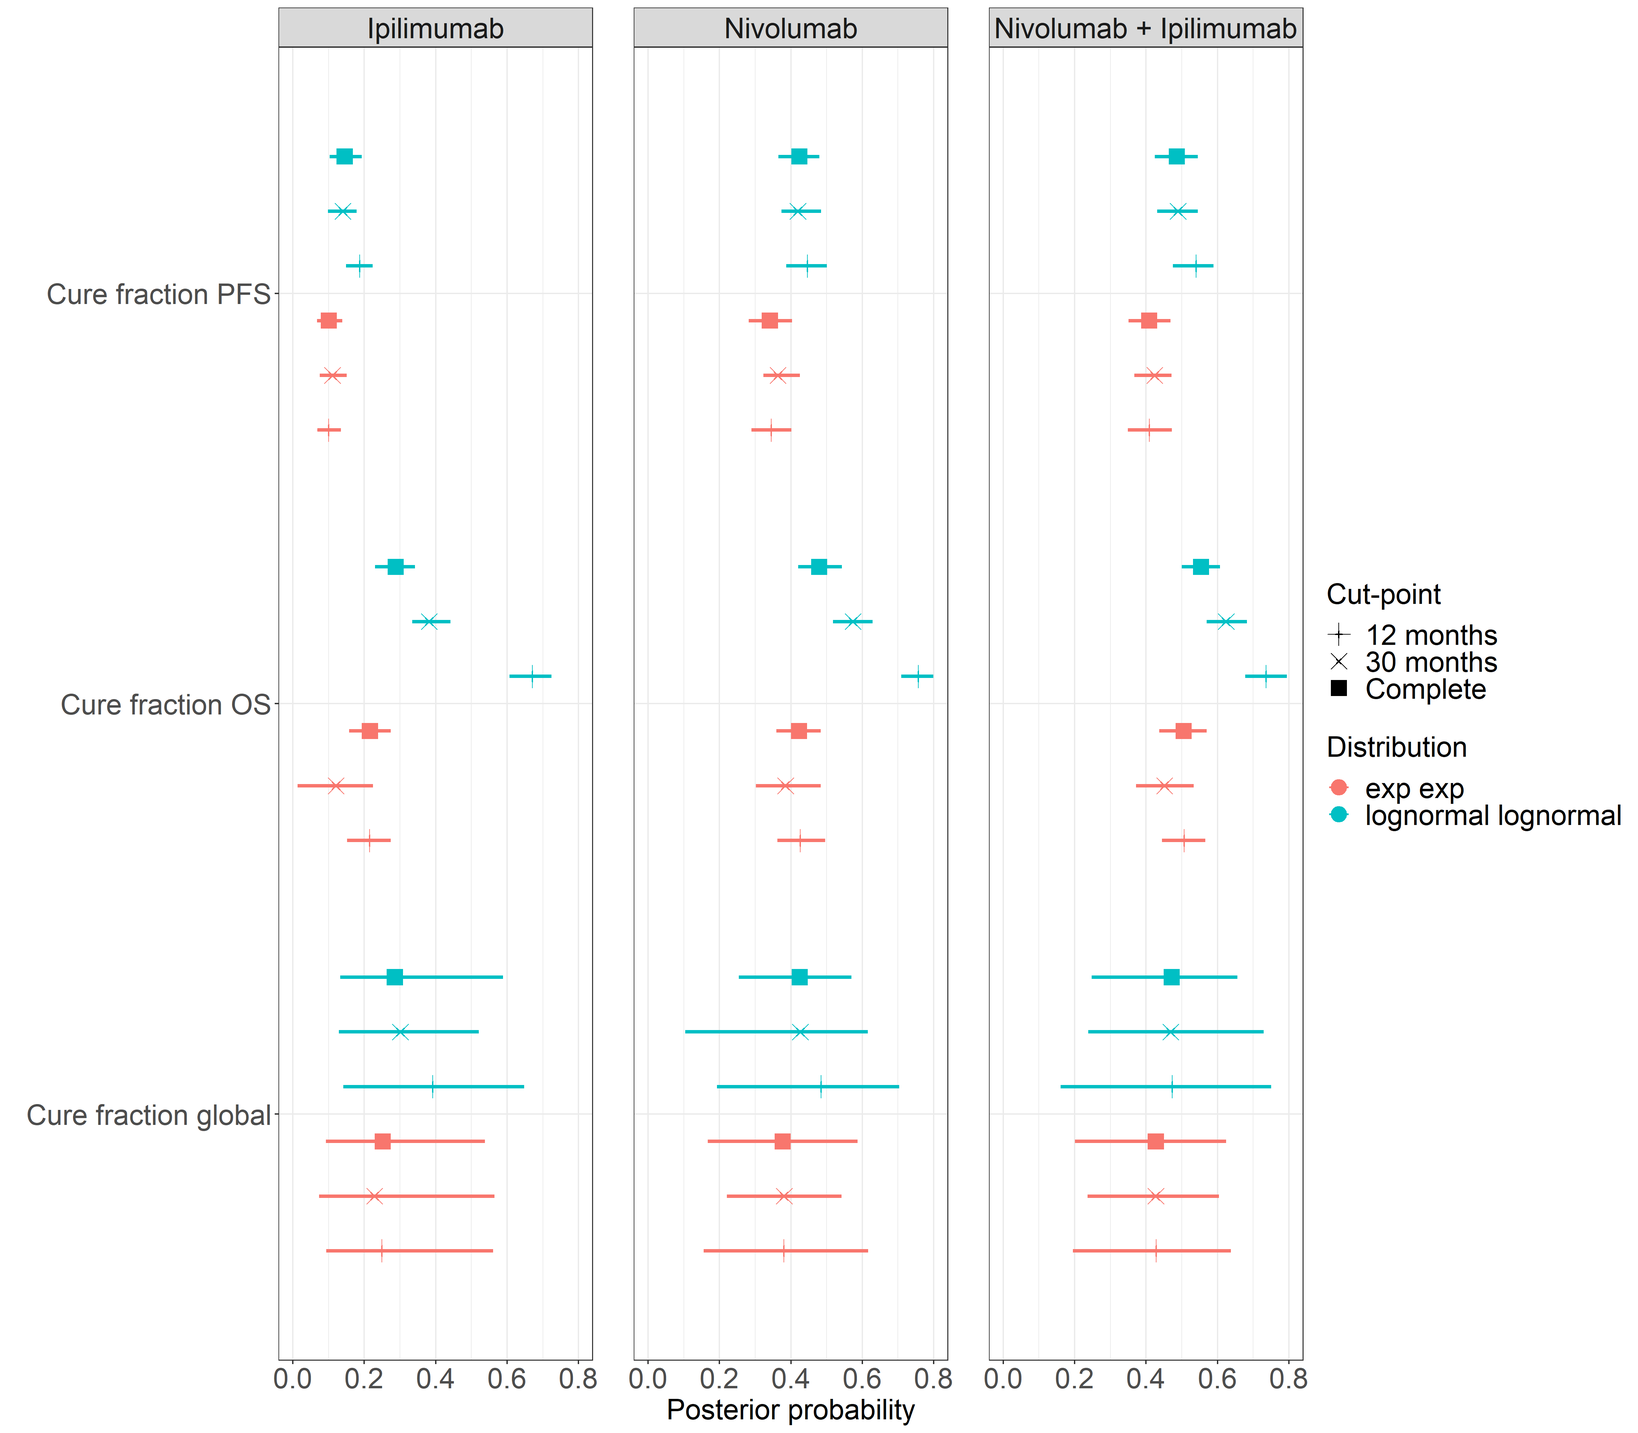
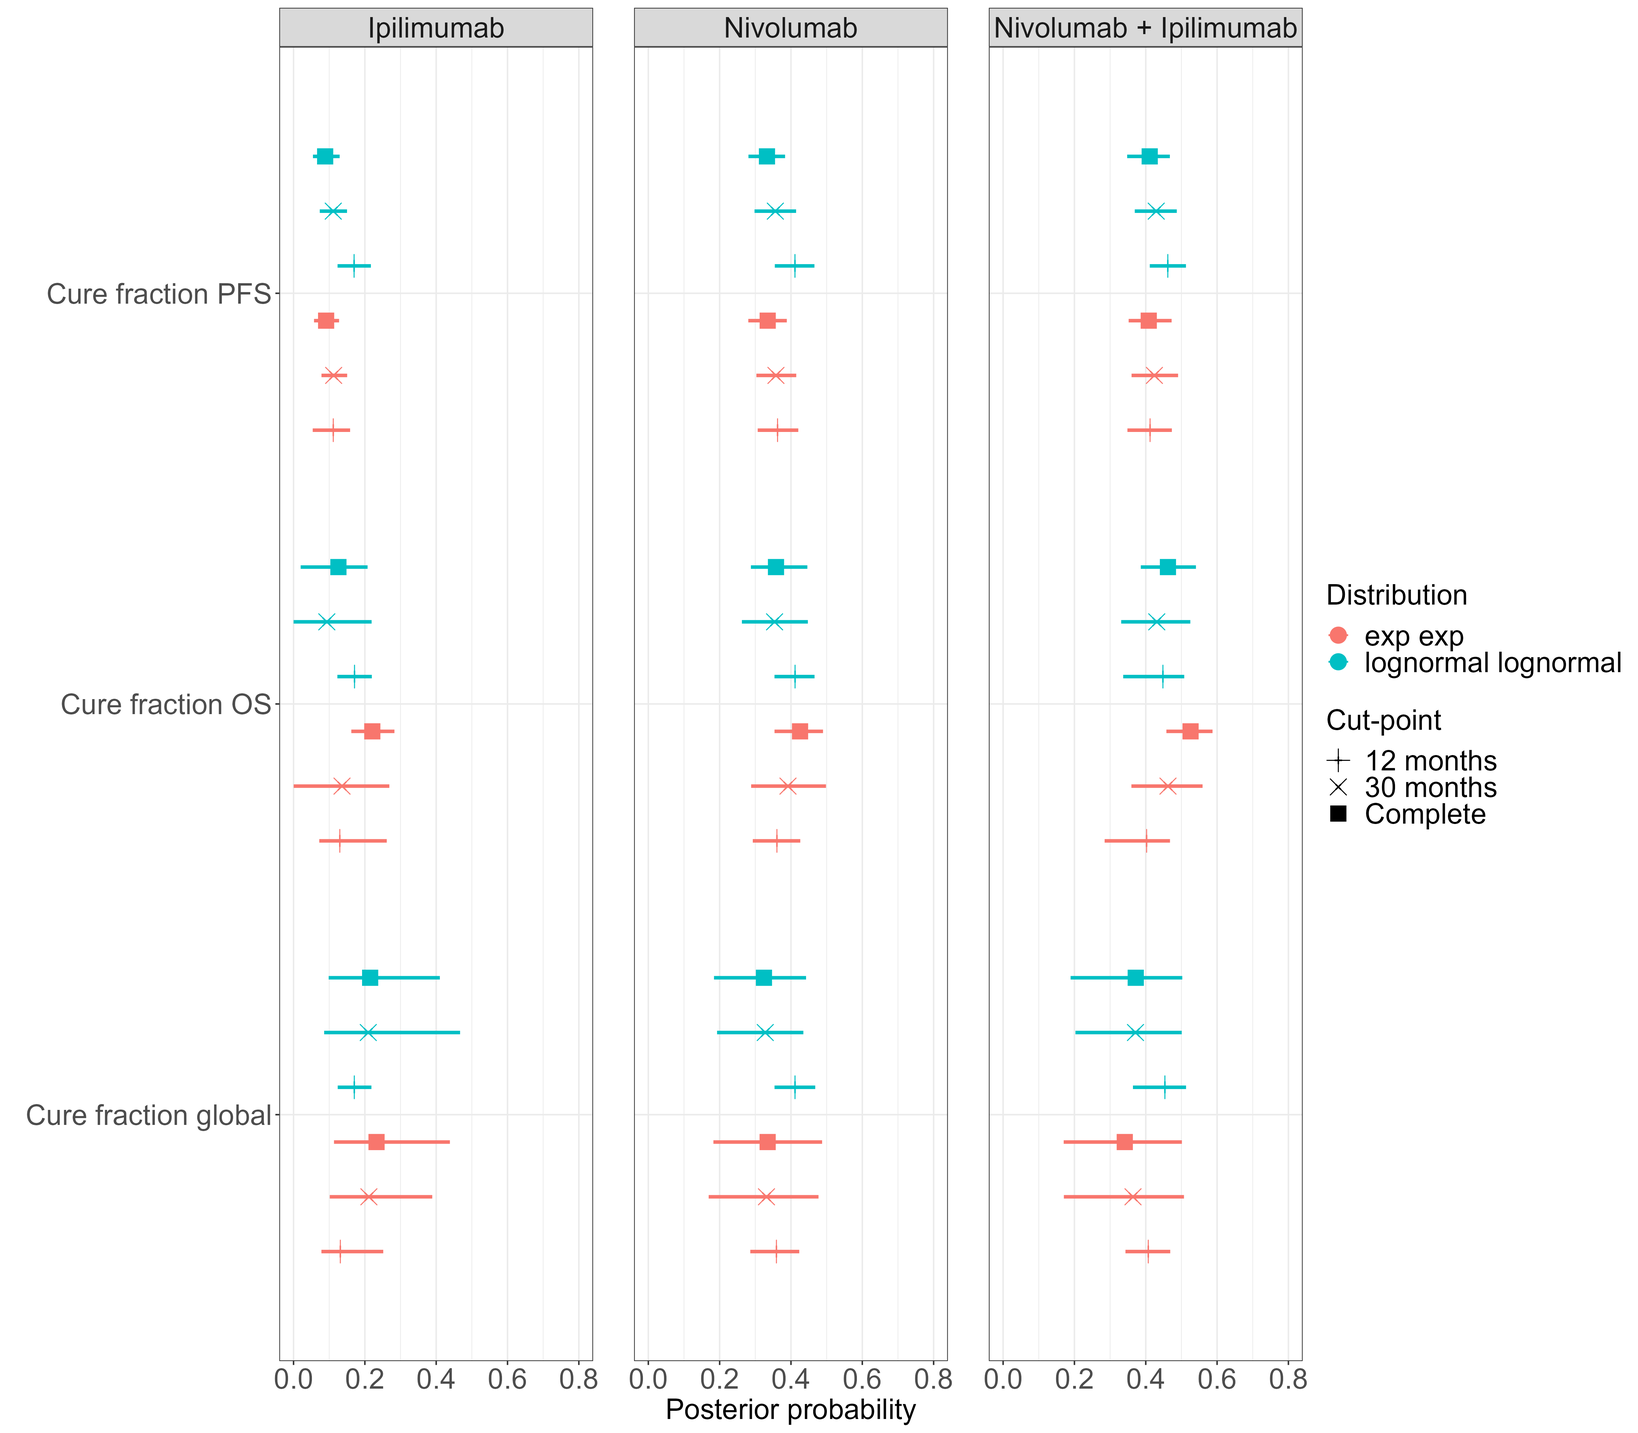
complexity penalise priors

diff --git a/wileyNJD-AMA.tex b/wileyNJD-AMA.tex
@@ -193,7 +193,6 @@ Similarly, for PFS, ranges of the proportions of LTSs were 9\%–13\% for ipilim
 
 %
 \section{Modelling framework}\label{sec:methods}
-\note[GBaio]{I wonder whether you could simplify the notation in this section and remove the index j throughout?}
 Consider a study in which $n$ individuals are observed and the (non-negative) time to either progression ($T^{prog}_{i}$) or death ($T^{death}_{i}$) are recorded for each individual $i=1,\ldots,n$.
 Denote the event time for individual $i$ by $T_{i}$.
 In our motivating example, we would have a separate set of $T_{i}$ for either end-point, PFS or OS.
@@ -234,9 +233,6 @@ In the standard cure model, cured individuals are usually assumed to have no cha
 There are several types of cure models and a rich and growing body of research in this area.
 (see \citep{Yu2013} for a comparison and guidance with application to oncology.)
 
-\note[GBaio]{I can understand \_b for "background", but why do we use \_u? Can we find a more straightforward notation?}
-\note[NGreen]{this just seems to be what everyone else uses. "u"ncured perhaps?}
-
 For an individual $i$ in a population with a cure fraction, the mixture cure model has the following survival model
 
 \begin{equation}
@@ -263,7 +259,7 @@ The treatment index for an individual is included in the covariate vector $\bm{x
 % We will assume without loss of generalisability that all individuals have all treatments.
 Note that although we are including all treatments arms in the same model we are not assuming any relationship between them. In particular, we do not suppose proportional hazards. This allows greater flexibility for the cases when proportional hazards is violated.
 
-%% move this to earlier?
+%% 
 \subsubsection{Issues modelling multiple end-points} \label{section:issues}
 There are several potential issues with existing approaches to cure modelling, when applied to an HTA context in particular.
 
@@ -282,6 +278,10 @@ The censoring times may be too early in order to adequately characterise a survi
 In particular, OS times are bounded below by PFS times by definition so will be subject to more censoring at the same cut-point.
 By taking advantage of the set of end-points together the data paucity may be alleviated to give better fits and extrapolation to the full lifetimes of patients.
 This is particularly important for health economics modelling in order to gauge the full cost and effect of an intervention.
+
+% complexity penalising
+Furthermore, if there is heavy censoring for all endpoints, such as early data cuts, and the number of endpoints is small then the data alone may not represent the true underlying survival curves, including the plateau for the cure fractions.
+At this point, additional sources of information should be principally incorporated into the model. A Bayesian paradigm naturally allows for the inclusion of external evidence from sources such as historical data and expert opinion. It is reasonable to assume, in the absence of additional information, that the cure fractions for all end points are drawn from the same or very similar distribution. In order to do this we can increase the amount of strength to borrow between end point data which strikes a balance between the information (or lack of) in the data and other knowledge \cite{Nikolaidis2021}. Practically, this corresponds to a reduction in the global cure fraction variance hyper parameter which in the limit is a base model with $\sigma_k=0$, equivalent to complete pooling of the data. 
 
 % our innovative proposal
 We will now present a Bayesian hierarchical mixture cure model for multiple end-points.
@@ -384,10 +384,29 @@ The hierarchical cure fraction is modelled as a fixed effect linear regression w
 This corresponds to a prior mean cure fraction of just under 0.5, and approximately 10\% and 1\% chance of exceeding 0.6 and 0.7 respectively.
 Prior predictive plots and further discussion are provided in the supplementary material.
 
-The random effect variance on the global cure fraction is a noninformative (folded) half-Normal \cite{Gelman2006} with 
-${\sigma^2 \sim \text{N}(0, 2.5)\mathbb{I}(0,)}$, where $\mathbb{I}(0,)$ denotes a distribution truncated at mean 0.
+\subsubsection{Cure fraction between-endpoint variance}
+% complete data
+For the complete data analysis, the random effect variance on the global cure fraction was a noninformative (folded) half-Normal \cite{Gelman2006} with 
+${\sigma_k \sim \text{N}(0, 2.5^2)\mathbb{I}(0,)}$, where $\mathbb{I}(0,)$ denotes a distribution truncated at mean 0.
 Alternatively, a noninformative uniform prior density on standard deviation parameters $\sigma$ is expected to generally work well when $J > 5$.
 For small hierarchical variance a $\text{Gamma}(2, 0.1)$ may be preferred \cite{Chung2013}.
+
+% cut-point data
+As discussed, the early phase of a trial is not very informative of the cure fraction if no plateauing is yet to occur. In this situation we can take advantage of the Bayesian hierarchical structure. In the absence of other evidence it is reasonable to assume that the cure fractions for each end-point are from the same distribution which corresponds to a narrow prior on the between-group standard deviation at the global cure fraction level. 
+Firstly, adopting the same family of prior distributions as in the main analysis with complete data, then suppose a confidence interval of approximately 99\% of the density so significance level $\alpha = 0.01$ which is for a two-tail distribution.
+This gives $\sigma_k \sim \mbox{N}(0, 0.06^2)\mathbb{I}(0,)$ for $p(\pi_k > 0.55) = 0.005$ and $\sigma_k \sim \mbox{N}(0, 0.03^2)\mathbb{I}(0,)$ for $p(\pi_k > 0.525) = 0.005$.
+Alternatively, we can use a {\it Penalised Complexity (PC)} prior which preferences a base model of greatest simplicity \cite{Simpson2017}.
+In our case, first define the parameters $\sigma_0$ and $\alpha$ for the equation $p(\sigma > \sigma_0) = \alpha$, and then using $\lambda = - \log(\alpha)/\sigma_0$ an exponential distribution prior with rate $\lambda$ can be obtained.
+So, for $\sigma_0 = 0.18$ leads to $\lambda = - \log(0.01)/0.18 = 25$ or $\sigma \sim \mbox{Exp}(25)$.
+Similarly, for $\sigma_0 = 0.08$ leads to $\lambda = - \log(0.01)/0.08 = 55$ or $\sigma \sim \mbox{Exp}(55)$.
+We can see how this corresponds to the prior uncertainty on the cure fraction scale in Figure~\ref{fig:complexityprior}. The two type of distributions are similar but the penalised complexity prior is more peaked around the central value.
+
+\begin{figure}[!ht]
+\centering
+\includegraphics[height=10cm, width=0.6\linewidth]{complexity-prior-plot.png}
+\caption{\label{fig:complexityprior} Bayesian hierarchical model prior distributions on the cure fraction scale corresponding to different between-group variances at the global cure fraction level, $\sigma_k^2$. Histograms are shown for penalised complexity priors (top) and truncated normal priors (bottom).}
+\end{figure}
+
 
 %
 \subsection{Choice of survival distributions}
@@ -422,7 +441,6 @@ For the basic mixture cure model assessment may focus on the model as a whole or
 The fit of the latency submodel can be examined using a revised Schoenfeld residual \cite{Wileyto2013} and the performance of the incidence submodel can be checked with concordance measures such as AUC \cite{Peng2021}.
 However, these incidence model approaches are best used directly with known cure status and are designed for models which consider individual cure fractions, unlike our model which assumed a single population cure fraction.
 Of course, we also extend the basic mixture cure model so it is not yet clear how to best use these methods in this situation. 
-\note[NGreen]{are we interested in PH between treatments? [Tori] PH has been shown to be violated for these treatments for both endpoints (BMS should be able to provide references for that)}
 
 %
 \subsection{Complete data only results} \label{sec:results}
@@ -466,7 +484,7 @@ Similarly, the OS survival probability is greater than 0 at the end of follow-up
 \begin{figure}[!ht]
 \centering
 \includegraphics[width=0.7\linewidth]{plot_S_overlay.png}
-\caption{\label{fig:S_overlay} Bayesian hierarchical mixture cure model posterior survival curves using complete CheckMate 067 trial data.}
+\caption{\label{fig:S_overlay} Bayesian hierarchical mixture cure model posterior survival curves for a range of distributions using complete CheckMate 067 trial data. The same distribution pairs are used for OS and PFS.}
 \end{figure}
 
 % cure fractions
@@ -643,7 +661,11 @@ WAIC: widely applicable information criterion.
 
 %
 \subsection{All data-cuts results}\label{sec:results-data-cut}
-We now turn our attention to fitting the mixture cure models to earlier data-cuts in the CheckMate 067 trial data set. 
+We now turn our attention to fitting the mixture cure models to earlier data-cuts in the CheckMate 067 trial data set.
+For the complete data set up to 60 months we have seen that the separate and hierarchical models produce similar parameter inferences. This is to be expected when the data are relatively mature, there are in effect only two data points at the global level and a weak prior is used for the global variance hyper parameter.
+
+For demonstration purposes, we show results using the the penalised complexity prior with exponential distribution rate parameter $\lambda = 55$ for the 12 months data cut scenario and retain all other prevous priors including the weak priors for the mean $\pi_k$. As more data are made available at later times then the emphasis on this prior is be relaxed reflecting the relative influence of the data increases. This approach is in the spirit of information-sharing methods such as power priors which are "adaptively robust", where a power parameter controls the degree of borrowing. For example, for the simple case of normal historical data under a flat prior, the power prior is another normal distribution with a scaled variance according to the sample size and magnitude of the power parameter, determined by the investigator.
+
 Figures~\ref{fig:forest_plot_cf_cutpoint_sep} and Figure~\ref{fig:forest_plot_cf_cutpoint_hier} show forest plots of the cure fraction estimates for 12, 30 and 60 months and for the separate and hierarchical models, respectively.
 Results are shown for the OS exponential with PFS exponential model and the OS log-Normal with PFS log-Normal model.
 
@@ -659,7 +681,7 @@ For OS in the hierarchical model the cure fraction estimates appear to be accura
 The posterior is more stable about the complete data cure fraction for all considered data-cuts.
 
 
-Figures~\ref{fig:S_cutpoint_12mo_sep} and \ref{fig:S_cutpoint_12mo_hier} show the survival curves for the data-cut with 12 months of follow-up data for the the exponential and log-Normal models and for the separate and hierarchical models respectively.
+Figures~\ref{fig:S_cutpoint_12mo_exp} shows the survival curves for the data-cut with 12 months of follow-up data for the exponential and for the separate and hierarchical models respectively.
 Equivalent Figures for 30 months data-cut are given in the Appendix.
 
 %% restricted mean survival times
@@ -682,18 +704,10 @@ Finally, the separate model gives 6.59 (6.18, 7.07) months for OS and 3.98 (3.85
 \caption{\label{fig:forest_plot_cf_cutpoint_hier} Posterior cure fraction forest plot with 95\% credible intervals for study data with cutpoint censoring at 12 months, 30 months and the complete data set using the hierarchical mixture cure model.}
 \end{figure}
 
-\note[NGreen]{show complete data with dotted line?}
-
 \begin{figure}[!ht]
 \centering
-\includegraphics[height=10cm, width=0.6\linewidth]{plot_S_grid_cf_sep_cpt_12m.png}
-\caption{\label{fig:S_cutpoint_12mo_sep} Separate mixture cure models posterior survival curves with 95\% credible intervals for (I) PFS and OS exponential uncured survival curves and (II) PFS and OS log-Normal uncured survival curves and censored times at a 12 month cutpoint. The black lines show the observed data Kaplan-Meier curves.}
-\end{figure}
-
-\begin{figure}[!ht]
-\centering
-\includegraphics[height=10cm, width=0.6\linewidth]{plot_S_grid_cf_hier_cpt_12m.png}
-\caption{\label{fig:S_cutpoint_12mo_hier} Hierarchical mixture cure model posterior survival curves with 95\% credible intervals for (I) PFS and OS exponential uncured survival curves and (II) PFS and OS log-Normal uncured survival curves and censored times at a 12 month cutpoint. The black lines show the observed data Kaplan-Meier curves.}
+\includegraphics[height=10cm, width=0.6\linewidth]{plot_S_grid_cf_exponential_cpt_12.png}
+\caption{\label{fig:S_cutpoint_12mo_exp} Mixture cure models posterior survival curves with 95\% credible intervals using cut-point data for 12 month follow-up and for separate (top) and hierarchical (bottom) models. Both PFS and OS use exponential uncured survival curves. The black lines show the observed data Kaplan-Meier curves.}
 \end{figure}
 
 % % CrI ratios
@@ -702,47 +716,63 @@ Finally, the separate model gives 6.59 (6.18, 7.07) months for OS and 3.98 (3.85
 
 % cf table?
 
-Table~\ref{tab:cutpoint_pred} shows the survival estimates at 60 months extrapolated using 12 and 30 months data cut point.
+Table~\ref{tab:cutpoint_pred} shows the survival estimates at 60 months extrapolated using 12 and 30 months data cut point. Clearly, when the survival curve has converged to the long-term plateau this is equivalent to the cure fraction.
 
 \begin{table*}[!ht]
 \centering
-\caption{Survival estimates at 60 months using 12 and 30 months data cut point. \label{tab:cutpoint_pred}}
+\caption{Survival probability estimates for separate and hierarchical models at 60 months using 12, 30 and 60 months data cut points. Models with exponential or log-normal distributions for both OS and PFS are given. \label{tab:cutpoint_pred}}
 \begin{tabular}{l|l|l|l|l|l|l}
 \hline
-End-point & Model & Distribution & Cut point & Ipilimumab & Nivolumab & Combined\\
- & & & (months) & & & \\
+Endpoint & Model & Distribution & Cut-point & Ipilimumab & Nivolumab & Combined\\
+ &  &  & (month) & & & \\
 \hline
-OS & hier & exp & 12 & 0.19 [0.11, 0.34] & 0.33 [0.27, 0.39] & 0.33 [0.2, 0.46]\\
+OS & hier & exp & 12 & 0.19 [0.14, 0.28] & 0.34 [0.28, 0.39] & 0.42 [0.33, 0.48]\\
 \hline
 OS & hier & exp & 30 & 0.2 [0.11, 0.28] & 0.33 [0.28, 0.38] & 0.47 [0.4, 0.55]\\
 \hline
-OS & hier & lognormal & 12 & 0.32 [0.22, 0.42] & 0.38 [0.33, 0.43] & 0.44 [0.33, 0.53]\\
+OS & hier & exp & 60 & 0.25 [0.2, 0.29] & 0.31 [0.26, 0.36] & 0.51 [0.46, 0.56]\\
+\hline
+OS & hier & lognormal & 12 & 0.28 [0.23, 0.33] & 0.38 [0.33, 0.43] & 0.49 [0.43, 0.54]\\
 \hline
 OS & hier & lognormal & 30 & 0.23 [0.17, 0.3] & 0.33 [0.28, 0.38] & 0.49 [0.43, 0.56]\\
+\hline
+OS & hier & lognormal & 60 & 0.25 [0.21, 0.3] & 0.31 [0.26, 0.35] & 0.51 [0.46, 0.56]\\
 \hline
 OS & separate & exp & 12 & 0.26 [0.18, 0.34] & 0.34 [0.28, 0.4] & 0.34 [0.23, 0.44]\\
 \hline
 OS & separate & exp & 30 & 0.22 [0.17, 0.28] & 0.32 [0.27, 0.38] & 0.47 [0.4, 0.52]\\
 \hline
+OS & separate & exp & 60 & 0.25 [0.21, 0.3] & 0.3 [0.25, 0.35] & 0.5 [0.45, 0.55]\\
+\hline
 OS & separate & lognormal & 12 & 0.34 [0.26, 0.42] & 0.38 [0.32, 0.43] & 0.41 [0.33, 0.51]\\
 \hline
 OS & separate & lognormal & 30 & 0.27 [0.22, 0.32] & 0.33 [0.27, 0.37] & 0.48 [0.42, 0.54]\\
 \hline
-PFS & hier & exp & 12 & 0.07 [0.02, 0.13] & 0.36 [0.21, 0.47] & 0.4 [0.33, 0.46]\\
+OS & separate & lognormal & 60 & 0.27 [0.22, 0.32] & 0.3 [0.25, 0.35] & 0.51 [0.45, 0.56]\\
+\hline
+PFS & hier & exp & 12 & 0.1 [0.05, 0.15] & 0.39 [0.34, 0.44] & 0.38 [0.32, 0.44]\\
 \hline
 PFS & hier & exp & 30 & 0.1 [0.07, 0.14] & 0.41 [0.34, 0.49] & 0.39 [0.33, 0.45]\\
 \hline
-PFS & hier & lognormal & 12 & 0.14 [0.09, 0.19] & 0.45 [0.36, 0.54] & 0.45 [0.39, 0.51]\\
+PFS & hier & exp & 60 & 0.08 [0.05, 0.12] & 0.42 [0.37, 0.48] & 0.38 [0.32, 0.44]\\
+\hline
+PFS & hier & lognormal & 12 & 0.16 [0.11, 0.2] & 0.47 [0.41, 0.51] & 0.43 [0.38, 0.48]\\
 \hline
 PFS & hier & lognormal & 30 & 0.1 [0.07, 0.14] & 0.43 [0.38, 0.49] & 0.4 [0.34, 0.45]\\
+\hline
+PFS & hier & lognormal & 60 & 0.08 [0.05, 0.12] & 0.43 [0.38, 0.48] & 0.38 [0.32, 0.43]\\
 \hline
 PFS & separate & exp & 12 & 0.1 [0.06, 0.15] & 0.35 [0.25, 0.45] & 0.4 [0.33, 0.46]\\
 \hline
 PFS & separate & exp & 30 & 0.11 [0.08, 0.15] & 0.41 [0.34, 0.48] & 0.38 [0.32, 0.43]\\
 \hline
+PFS & separate & exp & 60 & 0.1 [0.07, 0.14] & 0.42 [0.37, 0.48] & 0.37 [0.31, 0.42]\\
+\hline
 PFS & separate & lognormal & 12 & 0.15 [0.11, 0.19] & 0.43 [0.35, 0.52] & 0.44 [0.39, 0.49]\\
 \hline
 PFS & separate & lognormal & 30 & 0.12 [0.08, 0.15] & 0.43 [0.36, 0.5] & 0.39 [0.34, 0.45]\\
+\hline
+PFS & separate & lognormal & 60 & 0.1 [0.07, 0.13] & 0.43 [0.38, 0.48] & 0.37 [0.31, 0.42]\\
 \hline
 \end{tabular}
 \end{table*}
@@ -754,6 +784,7 @@ We have demonstrated the novel method using the CheckMate 067 trial data set for
 The hierarchical model was compared with the separate model analogue and has been shown to be superior as well as both principled and applicable to situations where trials include multiple treatment arms and end-points.
 
 One of the benefit of adopting a hierarchical Bayesian approach is robustness to smaller sample sizes due to providing prior information and borrowing of strength between data for different end-points.
+Principled prior distribution specification about the cure fractions was shown to be especially useful early on in the trial when observable data about long-term survivors was weak. 
 This results in the stabilisation of the cure fraction estimates.
 It may be that there is excessive borrowing of information between cure fractions when the end-points are distinctly different.
 In our example, this was not necessary since there are only two end-points but for a larger number this may be appropriate.
@@ -816,9 +847,26 @@ smaller trials,
 
 The key conclusion of this paper is that data are available for better more efficient estimation of the outcomes of trials. Standard models are generally not up to the task but we have demonstrated a novel model which can achieve this.
 
-\note[NGreen]{how should the complete responders be included in the main model? If they enter via the background adjustment why double-count them?}
-\note[NGreen]{model averaging using all distributions and weights from LOO/WAIC?}
-\note[NGreen]{extensions of the implementation could be to generalise to have different distributions for each treatment in a single model fit, rather than at the moment where they are assumed to be the same for all treatments.}
+
+% this doesnt go here
+% may move to supplimentary material
+% TODO: prior derivation details
+% This first thing to do is work out the maximum standard deviation for the global cure fraction values we would be {\it likely} to see.
+% That is, if we expect the global cure fraction (which contribute the mean cure fraction for each end point) to not be very varied (and so OS and PFS means are similar) then the standard deviation would be small.
+% Define the centred global cure fraction on the logit scale $x \sim \mbox{N}(0, \sigma^2)$.
+% \begin{eqnarray*}
+% p(\pi > \pi_{\mu} + \delta) &=& p(\mbox{logit}(\pi) > \mbox{logit}(\pi_{\mu} + \delta))\\
+% &=& p(\mu + x > \mbox{logit}(\pi_{\mu} + \delta))\\
+% &=& p(x > \mbox{logit}(\pi_{\mu} + \delta) - \mbox{logit}(\pi_{\mu}))\\
+% \end{eqnarray*}
+
+% We can simplify the notation as follows.
+% $$
+% p(x > \mbox{logOR}(\delta)) = p(z > \mbox{logOR}(\delta)/\sigma) = 1 - \Phi(\mbox{logOR}(\delta)/\sigma) < \alpha
+% $$
+% So, plugging-in some numbers: Assume that $\pi_{\mu} = 0.5$ then for $\alpha = 0.01$, a $\delta = 0.05$ difference is $1 - \Phi(0.2/\sigma) < 0.01$ which gives $\sigma = 0.1$
+% or for $\delta = 0.02$ difference then $1 - \Phi(0.08/\sigma) < 0.01$ gives $\sigma = 0.035$.
+% Next, we can use this maximum standard deviation on the global cure fraction to define the distribution for the between-group variance.
 
 % % previous methodology work
 % In previous work, a multilevel frailty cure fraction model for the latent variable formulation was considered by \cite{Tawiah2020}.
